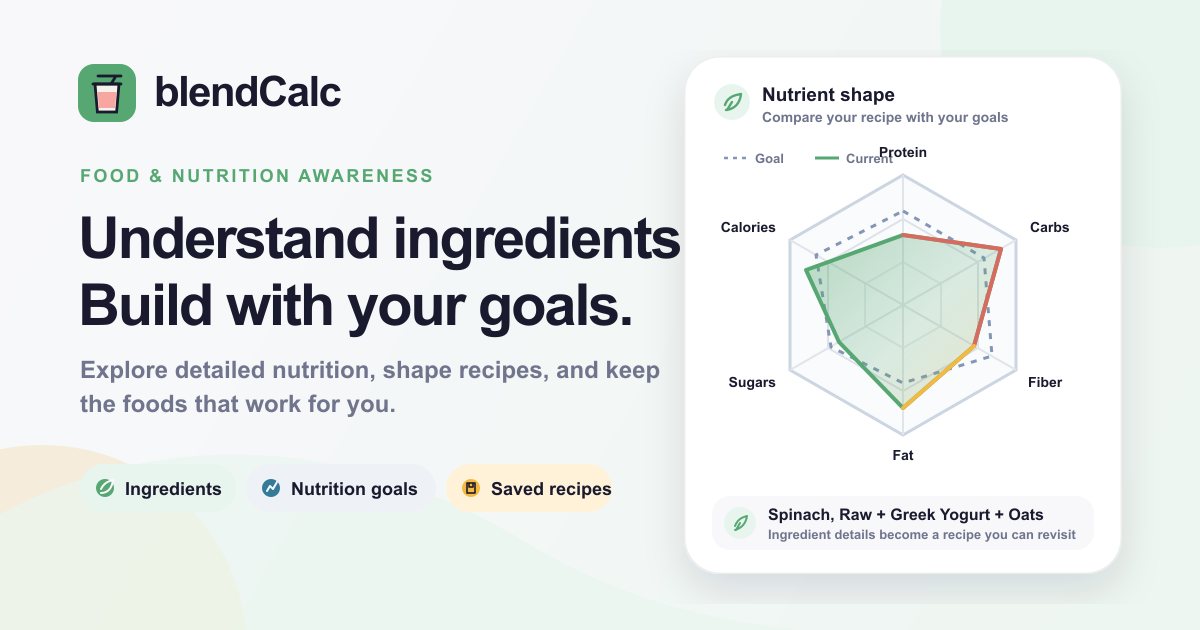
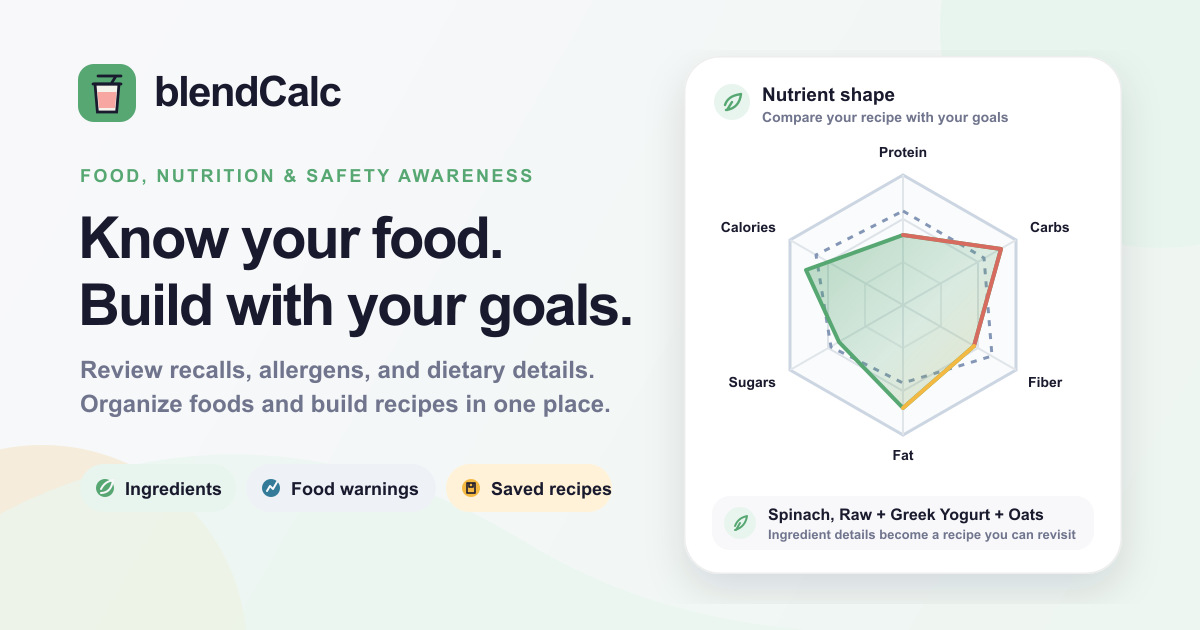
fix(product): DEV-025 align social preview contract

diff --git a/tests/config/socialPreview.test.ts b/tests/config/socialPreview.test.ts
@@ -11,20 +11,23 @@ const socialPreviewImagePath = "static/social-preview.png";
 describe("social link preview", () => {
 	it("uses an absolute, cache-versioned production image URL", () => {
 		expect(APP_SOCIAL_PREVIEW_URL).toBe(
-			"https://blendcalc.vercel.app/social-preview.png?v=20260814",
+			"https://blendcalc.vercel.app/social-preview.png?v=20260831",
 		);
-		expect(APP_SOCIAL_PREVIEW_ALT).toContain("ingredient tools");
-		expect(APP_SOCIAL_PREVIEW_ALT).toContain("nutrition goal chart");
-		expect(APP_SOCIAL_PREVIEW_ALT).toContain("saved recipes");
+		expect(APP_SOCIAL_PREVIEW_ALT).toContain("nutrition");
+		expect(APP_SOCIAL_PREVIEW_ALT).toContain("recalls");
+		expect(APP_SOCIAL_PREVIEW_ALT).toContain("allergens");
+		expect(APP_SOCIAL_PREVIEW_ALT).toContain("recipes");
 	});
 
 	it("keeps the editable source aligned with the current product", () => {
 		const source = readFileSync(socialPreviewSourcePath, "utf8");
 
 		expect(source).toContain("blendCalc");
-		expect(source).toContain("Understand ingredients.");
-		expect(source).toContain("Nutrition goals");
+		expect(source).toContain("Know your food.");
+		expect(source).toContain("Food warnings");
 		expect(source).toContain("Saved recipes");
+		expect(source).not.toContain(">Goal<");
+		expect(source).not.toContain(">Current<");
 		expect(source).not.toMatch(/Smoothie Mixer|Saved mixes|Save blends/i);
 	});
 
@@ -45,6 +48,8 @@ describe("social link preview", () => {
 		expect(layout).toContain(
 			'<meta name="twitter:image" content={APP_SOCIAL_PREVIEW_URL} />',
 		);
-		expect(layout).toContain('name="twitter:card" content="summary_large_image"');
+		expect(layout).toContain(
+			'name="twitter:card" content="summary_large_image"',
+		);
 	});
 });

diff --git a/src/lib/config/brand.ts b/src/lib/config/brand.ts
@@ -3,9 +3,7 @@ import { APP_VERSION } from "$lib/config/version";
 export const APP_NAME = "blendCalc";
 export const APP_PRODUCTION_ORIGIN = "https://blendcalc.vercel.app";
 export const APP_DESCRIPTION =
-	"A food and nutrition awareness tool for understanding ingredients, building combinations, and comparing them with your goals.";
-export const APP_SOCIAL_PREVIEW_URL =
-	`${APP_PRODUCTION_ORIGIN}/social-preview.png?v=20260814`;
-export const APP_SOCIAL_PREVIEW_ALT =
-	`${APP_NAME} preview with ingredient tools, a nutrition goal chart, and saved recipes`;
+	"A food-awareness tool for organizing food, reviewing nutrition, recalls, allergens, and dietary details, and building recipes.";
+export const APP_SOCIAL_PREVIEW_URL = `${APP_PRODUCTION_ORIGIN}/social-preview.png?v=20260831`;
+export const APP_SOCIAL_PREVIEW_ALT = `${APP_NAME} preview for food organization, nutrition, recalls, allergens, dietary details, and recipes`;
 export const APP_USER_AGENT = `${APP_NAME}/${APP_VERSION} (${APP_PRODUCTION_ORIGIN})`;
